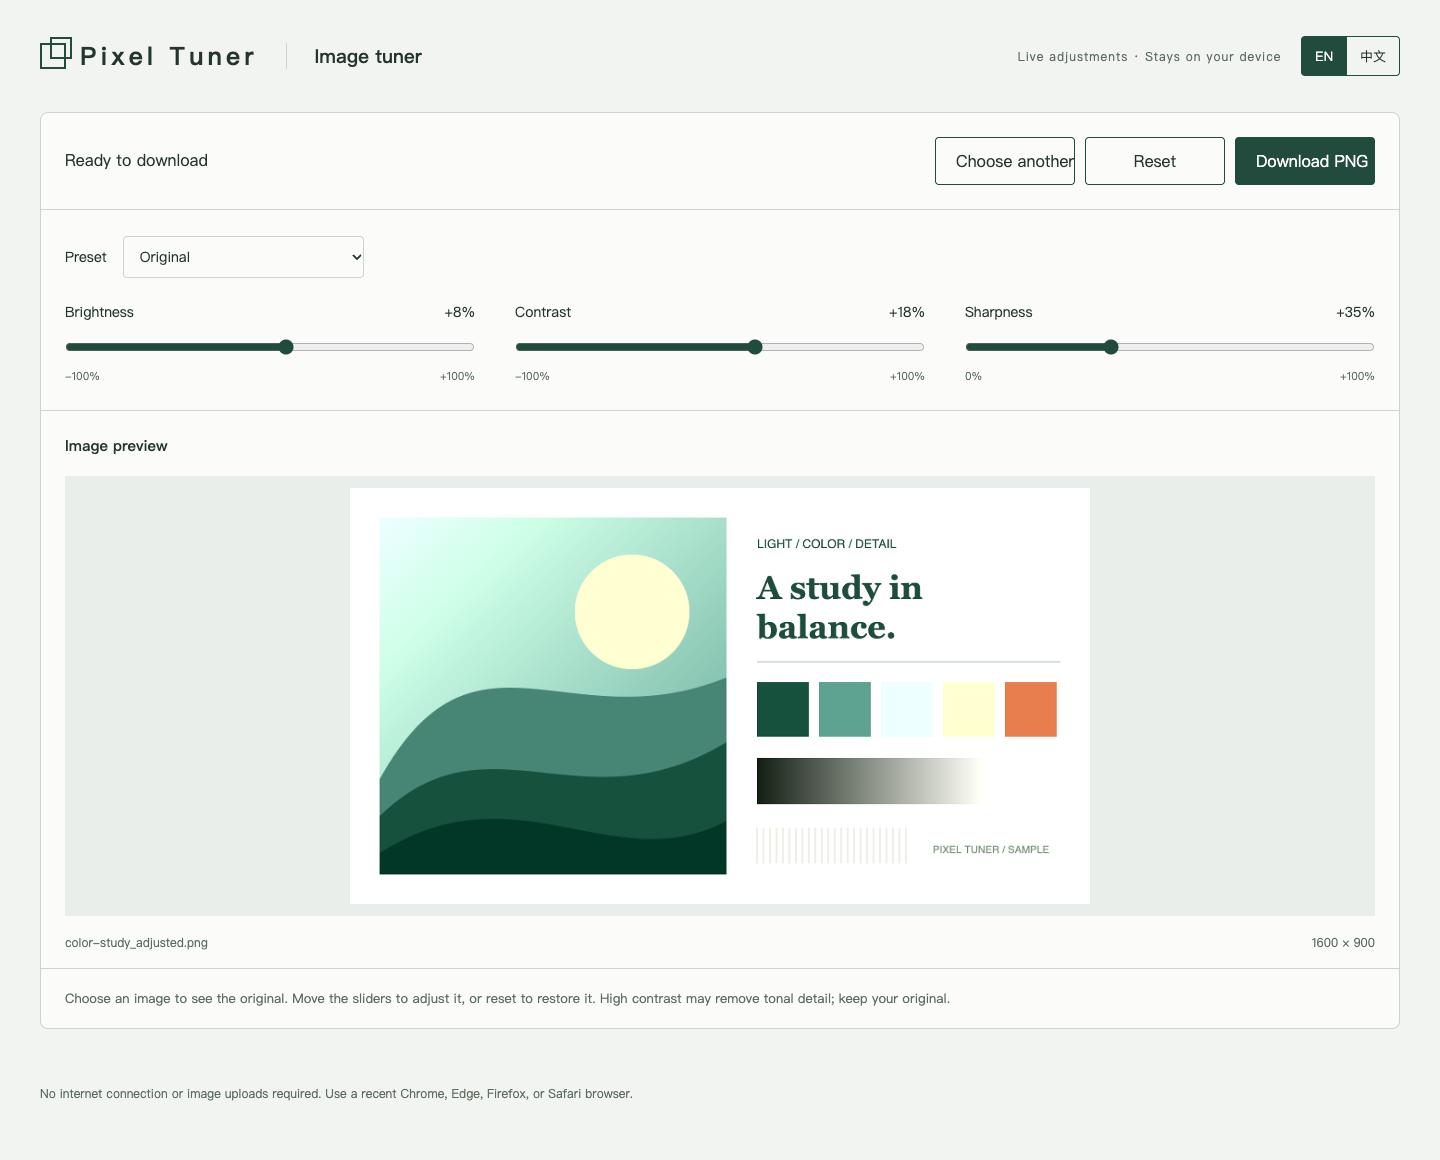
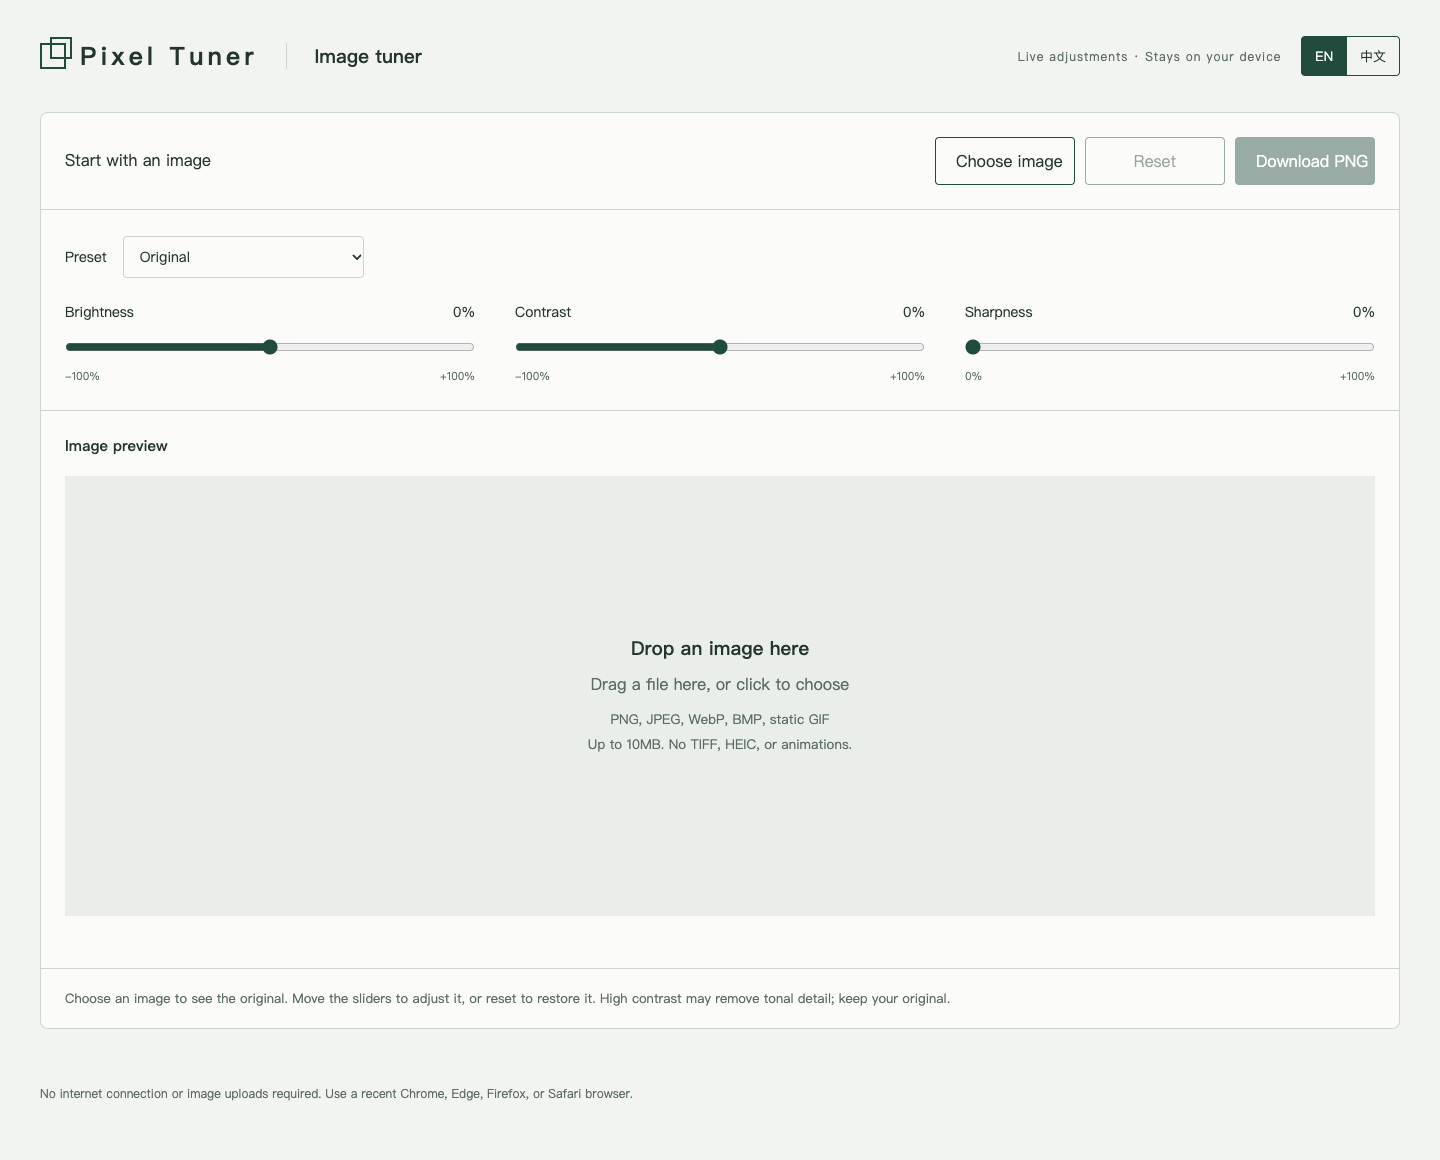
docs: show first-open state in bilingual screenshots

diff --git a/README.md b/README.md
@@ -12,9 +12,9 @@ No installation. No backend. No tracking. No external runtime dependencies.
 
 ## Preview
 
-![Pixel Tuner in English with a local sample image and live brightness, contrast, and sharpness controls](docs/screenshots/pixel-tuner-en.png)
+![Pixel Tuner on first open in English, before selecting an image](docs/screenshots/pixel-tuner-en.png)
 
-*English interface with a locally generated sample image. Switch languages at the top right without changing your image or adjustments.*
+*First-open English interface: no image selected, Original preset, and all adjustments at 0%.*
 
 ## Quick start
 

diff --git a/README.zh-CN.md b/README.zh-CN.md
@@ -12,9 +12,9 @@ Pixel Tuner（净像）是一个在本机运行的轻量图片调校工具，支
 
 ## 界面预览
 
-![净像中文界面：本地演示图片与亮度、对比度、锐度实时调节](docs/screenshots/pixel-tuner-zh-CN.png)
+![净像首次打开时的中文界面，尚未选择图片](docs/screenshots/pixel-tuner-zh-CN.png)
 
-*中文界面实拍，示例图在本地生成。右上角可切换语言，图片和调节参数保持不变。*
+*首次打开时的中文界面：未选择图片，默认预设为“原图”，三个参数均为0%。*
 
 ## 快速开始
 
